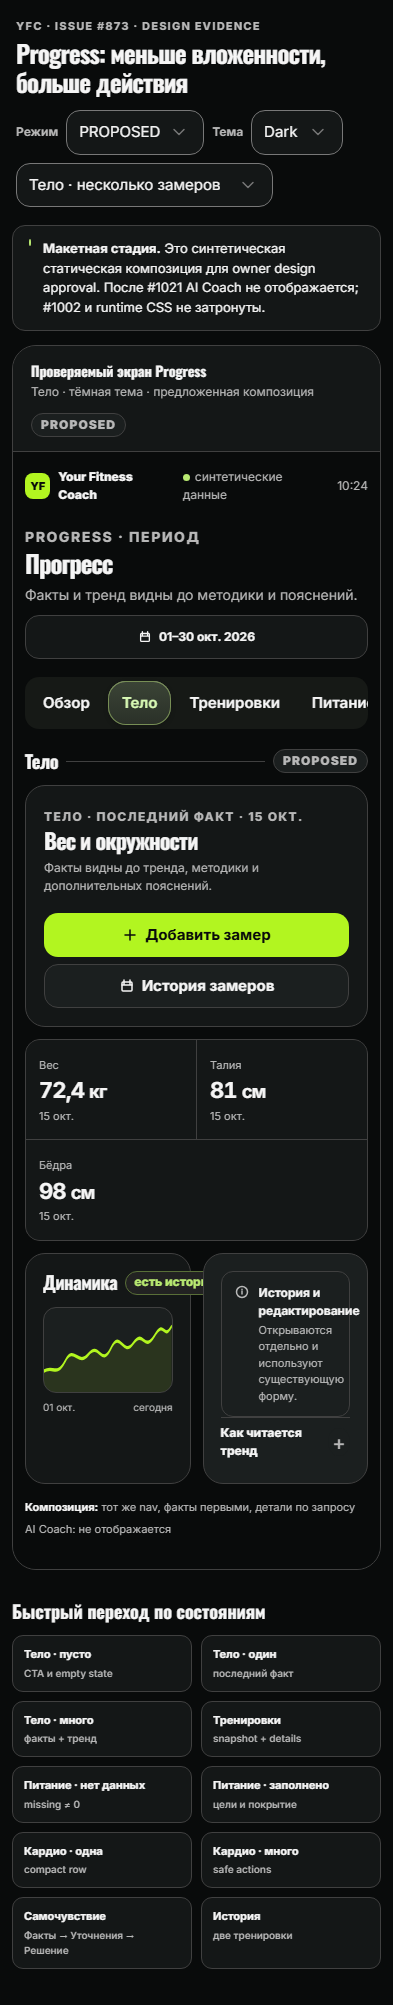
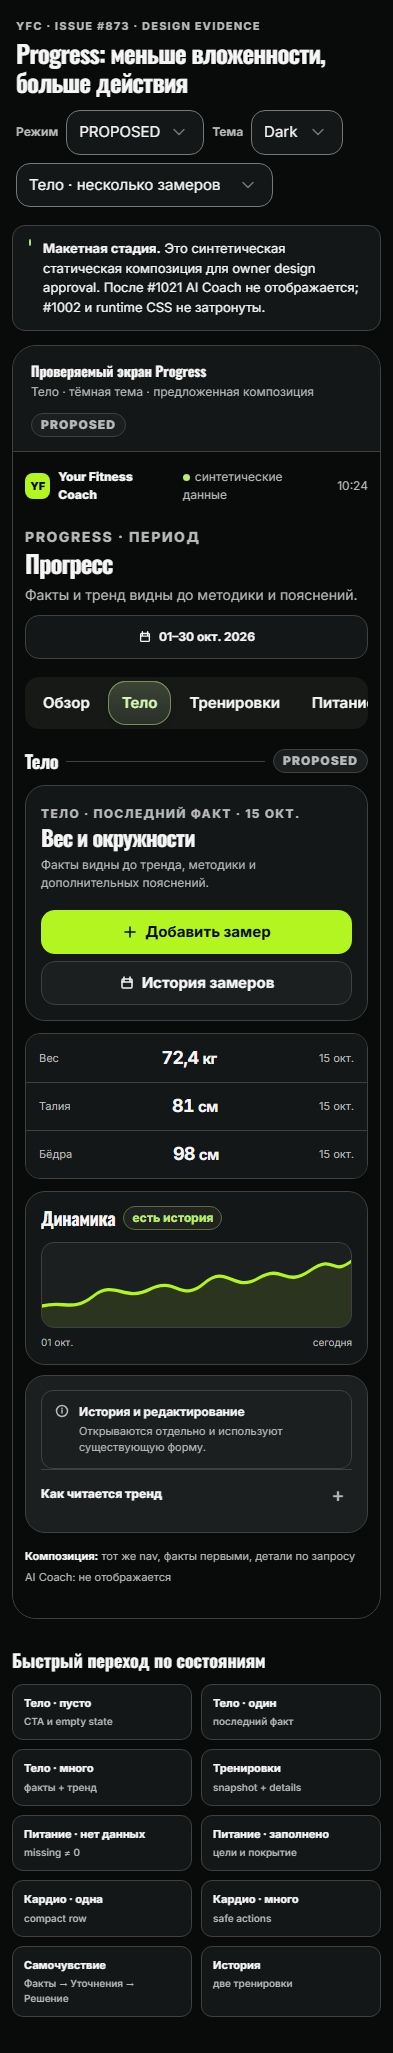
docs(progress): rework all mobile detail mockups without Bento (#873)

diff --git a/docs/ux/issue-873-progress-design-20261016/gallery.html b/docs/ux/issue-873-progress-design-20261016/gallery.html
@@ -764,6 +764,56 @@
         .legacy-grid { grid-template-columns: repeat(2, minmax(0, 1fr)); gap: 6px; padding: 7px; }
         .legacy-item { min-height: 51px; padding: 7px 8px; font-size: 11px; }
         .grid--3 { grid-template-columns: 1fr; }
+        /* Owner feedback: no mobile Bento. Keep Desktop grid and full-width content rows. */
+        html[data-mode='proposed'] .grid--2,
+        html[data-mode='proposed'] .grid--3 {
+          grid-template-columns: minmax(0, 1fr);
+          gap: 10px;
+        }
+        html[data-mode='proposed'] .screen__content > .grid,
+        html[data-mode='proposed'] .card,
+        html[data-mode='proposed'] .body-hero {
+          width: 100%;
+          min-width: 0;
+        }
+        html[data-mode='proposed'] .card__body {
+          padding: 14px 15px;
+        }
+        html[data-mode='proposed'] .fact-strip {
+          display: flex;
+          flex-direction: column;
+          gap: 0;
+          border-color: var(--line);
+          background: var(--surface);
+        }
+        html[data-mode='proposed'] .fact-strip__item {
+          display: flex;
+          align-items: center;
+          justify-content: space-between;
+          gap: 12px;
+          min-height: 48px;
+          padding: 9px 13px;
+          border-block-start: 1px solid var(--line);
+        }
+        html[data-mode='proposed'] .fact-strip__item:first-child {
+          border-block-start: 0;
+        }
+        html[data-mode='proposed'] .fact-strip__item strong {
+          margin: 0;
+          text-align: right;
+          font-size: 18px;
+        }
+        html[data-mode='proposed'] .body-hero {
+          background: var(--surface);
+          padding: 15px;
+        }
+        html[data-mode='proposed'] .body-hero__actions {
+          display: grid;
+          grid-template-columns: minmax(0, 1fr);
+        }
+        html[data-mode='proposed'] .button--primary {
+          width: 100%;
+        }
         .body-hero { flex-direction: column; }
         .body-hero__actions { width: 100%; flex-direction: row; flex-wrap: wrap; }
         .body-hero__actions .button { flex: 1 1 150px; }

diff --git a/docs/ux/issue-873-progress-design-20261016/MOBILE_REWORK.md b/docs/ux/issue-873-progress-design-20261016/MOBILE_REWORK.md
@@ -1,0 +1,57 @@
+# #873 — mobile redesign v2 (обновлено по отзыву владельца)
+
+**Статус:** `MOBILE_DESIGN_REVIEW_PENDING`, 2026-10-16. Desktop Dark/Light из прежнего пакета **APPROVED** и не изменяется. Ниже — новый design-only прототип: **одна колонка, без Bento**, более простая иерархия карточек, компактные показатели списком, полноширинное основное действие. Фирменные YFC Dark/Light, шрифты и лаймовые акценты сохранены. Это **не production UI**.
+
+Все картинки сняты заново в Chromium с локального `gallery.html` после правки CSS. Клик по картинке открывает исходный PNG.
+
+## Тело
+
+| Dark | Light |
+|---|---|
+| [![Тело Dark](./visuals/proposed-dark-393-body-many.png)](./visuals/proposed-dark-393-body-many.png) | [![Тело Light](./visuals/proposed-light-393-body-many.png)](./visuals/proposed-light-393-body-many.png) |
+
+## Тренировки
+
+| Dark | Light |
+|---|---|
+| [![Тренировки Dark](./visuals/proposed-dark-393-training.png)](./visuals/proposed-dark-393-training.png) | [![Тренировки Light](./visuals/proposed-light-393-training.png)](./visuals/proposed-light-393-training.png) |
+
+## Питание
+
+| Dark | Light |
+|---|---|
+| [![Питание Dark](./visuals/proposed-dark-393-nutrition-filled.png)](./visuals/proposed-dark-393-nutrition-filled.png) | [![Питание Light](./visuals/proposed-light-393-nutrition-filled.png)](./visuals/proposed-light-393-nutrition-filled.png) |
+
+## Кардио
+
+| Dark | Light |
+|---|---|
+| [![Кардио Dark](./visuals/proposed-dark-393-cardio-many.png)](./visuals/proposed-dark-393-cardio-many.png) | [![Кардио Light](./visuals/proposed-light-393-cardio-many.png)](./visuals/proposed-light-393-cardio-many.png) |
+
+## Самочувствие
+
+| Dark | Light |
+|---|---|
+| [![Самочувствие Dark](./visuals/proposed-dark-393-wellbeing.png)](./visuals/proposed-dark-393-wellbeing.png) | [![Самочувствие Light](./visuals/proposed-light-393-wellbeing.png)](./visuals/proposed-light-393-wellbeing.png) |
+
+## История
+
+| Dark | Light |
+|---|---|
+| [![История Dark](./visuals/proposed-dark-393-history.png)](./visuals/proposed-dark-393-history.png) | [![История Light](./visuals/proposed-light-393-history.png)](./visuals/proposed-light-393-history.png) |
+
+## Адаптивность и крайние случаи
+
+| Состояние | Dark | Light |
+|---|---|---|
+| Тело: нет замеров | [PNG](./visuals/proposed-dark-393-body-empty.png) | [PNG](./visuals/proposed-light-393-body-empty.png) |
+| Тело: одна запись | [PNG](./visuals/proposed-dark-393-body-one.png) | [PNG](./visuals/proposed-light-393-body-one.png) |
+| Питание: нет данных | [PNG](./visuals/proposed-dark-393-nutrition-empty.png) | [PNG](./visuals/proposed-light-393-nutrition-empty.png) |
+| Кардио: одна запись | [PNG](./visuals/proposed-dark-393-cardio-one.png) | [PNG](./visuals/proposed-light-393-cardio-one.png) |
+| 320px | [PNG](./visuals/proposed-dark-320.png) | [PNG](./visuals/proposed-light-320.png) |
+| 360px | [PNG](./visuals/proposed-dark-360.png) | [PNG](./visuals/proposed-light-360.png) |
+| 430px | [PNG](./visuals/proposed-dark-430.png) | [PNG](./visuals/proposed-light-430.png) |
+
+Проверки: `mobile-review-checks.json` — 26/26 captures, среди них 20 вкладок/состояний (10 состояний × обе темы) и 6 адаптивных ширин, без горизонтального overflow и без двухколоночных grid/Bento в proposed Mobile; все кнопки `.button` не менее 44px. Это не доказывает работоспособность нативной TMA/VoiceOver/iPhone.
+
+**Следующий gate:** новый мобильный owner design approval; desktop уже approved. До этого никаких изменений production `frontend/src`, merge/deploy не разрешены.

diff --git a/docs/ux/issue-873-progress-design-20261016/SCREENSHOTS.md b/docs/ux/issue-873-progress-design-20261016/SCREENSHOTS.md
@@ -1,5 +1,7 @@
 # #873 — скриншоты на повторный аппрув
 
+**ОБНОВЛЕНО ПО MOBILE FEEDBACK:** [новая мобильная галерея БЕЗ Bento, все 6 разделов Dark/Light](./MOBILE_REWORK.md). Десктопные макеты ниже утверждены. Старые мобильные макеты заменены обновлёнными PNG.
+
 **Это предложение дизайна, не работающий production UI.** Все PNG взяты из текущего design-only пакета #1030 после исправления фиолетовых элементов в сторону действующей палитры YFC. Текущие production компоненты и цвета должны быть проверены ещё и при реализации.
 
 ## Быстрый просмотр (4 изображения)
